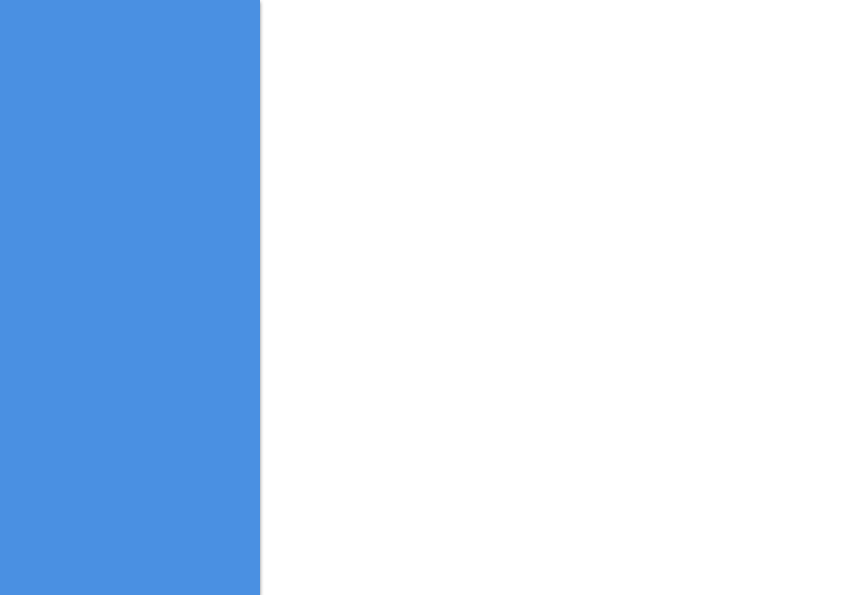
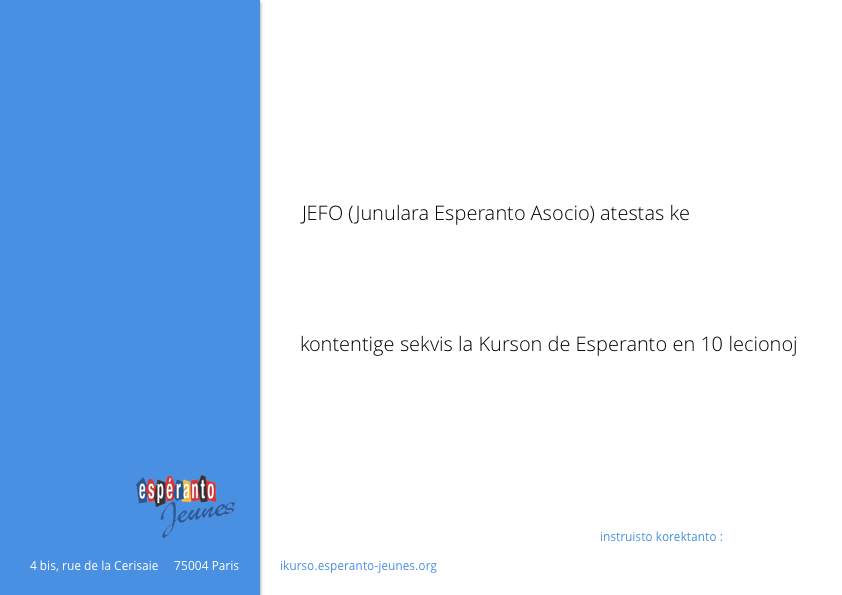
#18 Nouvelles images pour le PDF + ajout PDF pour KE

diff --git a/diplome.php b/diplome.php
@@ -21,6 +21,8 @@ if ($infos==null) {
 header ("Content-type: image/png");
 if ($infos["kurso"]=="CG") {
 	$image = imagecreatefrompng("bildoj/diplomeCG.png");
+} elseif ($infos["kurso"]=="KE") {
+	$image = imagecreatefrompng("bildoj/diplomeKE.png");
 } elseif ($infos["kurso"]=="GR") {
 	$image = imagecreatefrompng("bildoj/diplomeGR.png");
 }
@@ -30,6 +32,9 @@ if ($infos["kurso"]=="CG") {
 	$blanc = imagecolorallocate($image,hexdec("FF"),hexdec("FF"),hexdec("FF"));
 	$noir = imagecolorallocate($image,hexdec("00"),hexdec("00"),hexdec("00"));
 if ($kurso=="CG") {
+	// on découpe la couleur #4A90E2 en rouge/vert/bleu :
+	$couleur = imagecolorallocate($image,hexdec("4A"),hexdec("90"),hexdec("E2"));
+} elseif ($kurso=="KE") {
 	// on découpe la couleur #4A90E2 en rouge/vert/bleu :
 	$couleur = imagecolorallocate($image,hexdec("4A"),hexdec("90"),hexdec("E2"));
 } elseif ($kurso=="GR") {
@@ -47,8 +52,8 @@ if ($persono["familinomo"]!="" || $persono["personnomo"]!="") {
 // remplissage du texte
 imagettftext($image, 16, 0, 300, 30, $couleur, 'fonts/OpenSans-Light.ttf', 'Parizo, la '.$infos["findato"]);
 imagettftext($image, 48, 0, 300, 300, $noir, 'fonts/OpenSans-Light.ttf', $nom);
-imagettftext($image, 16, 0, 600, 500, $couleur, 'fonts/OpenSans-Light.ttf', 'Instruisto korektanto :');
-imagettftext($image, 16, 0, 600, 550, $couleur, 'fonts/OpenSans-Regular.ttf', $infos["personnomo"]." ".$infos["familinomo"]); // nom-prénom du correcteur
+//imagettftext($image, 12, 0, 600, 500, $couleur, 'fonts/OpenSans-Light.ttf', 'instruisto korektanto:');
+imagettftext($image, 16, 0, 600, 570, $couleur, 'fonts/OpenSans-Regular.ttf', $infos["personnomo"]." ".$infos["familinomo"]); // nom-prénom du correcteur
 
 imagepng($image);
 

diff --git a/personinformoj.php b/personinformoj.php
@@ -14,7 +14,7 @@ $parto=1;
 include "pagxkapo.inc.php";
 
 if ($erarkodo=="16") echo "<div class='atentigo'><p class='eraro'>Cours inconnu.</p></div>";
-if ($erarkodo=="17") echo "<div class='atentigo'><p class='eraro'>Diplome introuvable pour ce cours.</p></div>";
+if ($erarkodo=="17") echo "<div class='atentigo'><p class='eraro'>Attestation introuvable pour ce cours.</p></div>";
 ?>
 		<div id="enhavo">
 		<ul id="tabnav">
